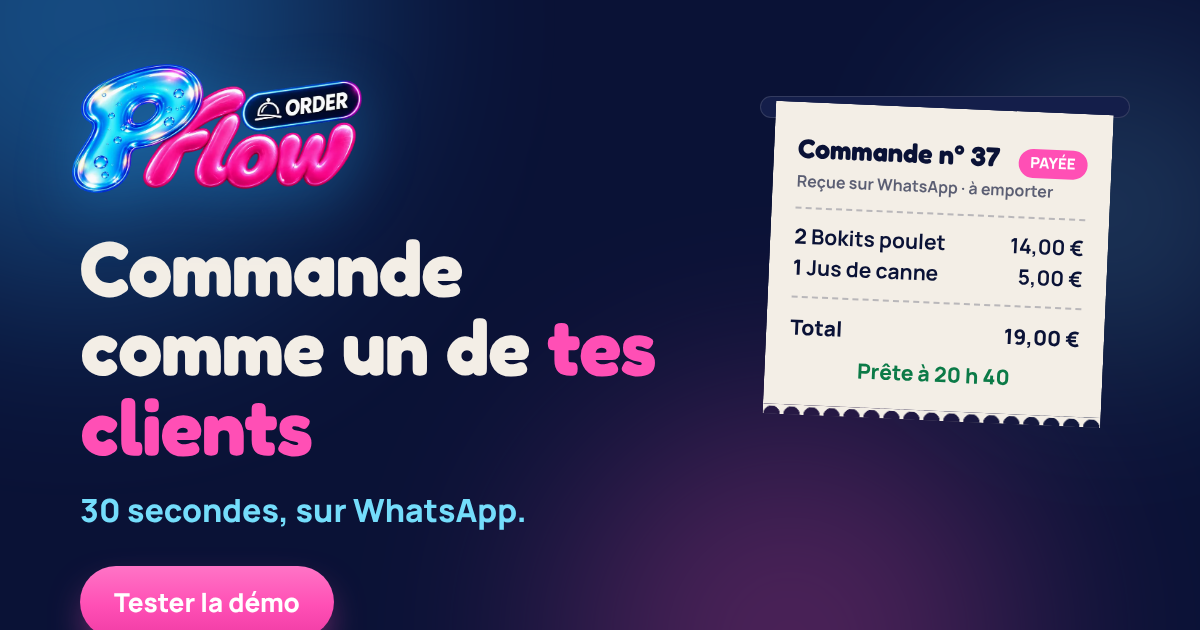
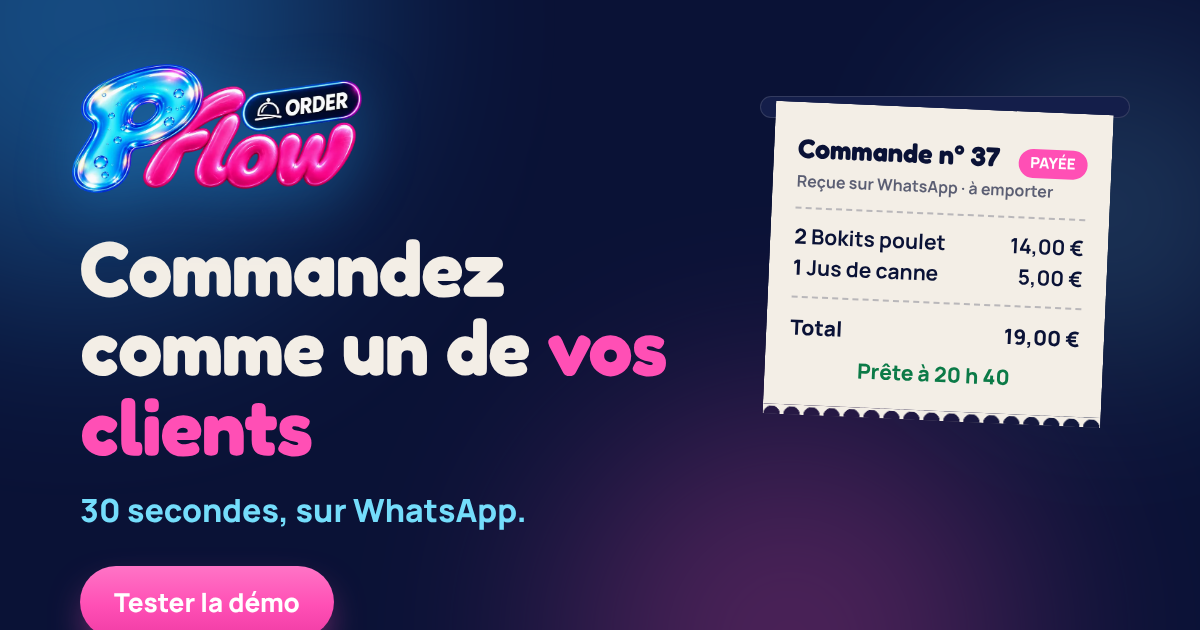
Page /demo au vouvoiement (charte PFlow v2) (#2)
* Page /demo : le lien en bio Instagram pour tester la démo WhatsApp

- demo.html : mobile-first, couleurs de la charte (#0A1236, #FF4FB5, #2AABFF, #F3EEE6, #74DDFB), polices du site
  1. logo + « Commande comme un de tes clients » / « 30 secondes, sur WhatsApp. »
  2. bouton rose « Tester la démo sur WhatsApp » (DEMO_WHATSAPP_URL en constante, à remplir)
  3. Tu écris → Tu commandes → Le resto reçoit le ticket, ticket crème qui sort au scroll
  4. « Déjà utilisé par 5 restaurants en Guadeloupe » + logos de /clients/
  5. « Découvrir PFlow » → accueil ; 6. « Tu es restaurateur ? Écris-moi » → WhatsApp pro
- UTM de l'adresse recopiés sur les liens wa.me et l'accueil ; la source (instagram, site...) ajoutée au message
- Vercel Web Analytics : visites + un événement par bouton (demo_test, decouvrir_pflow, contact_pro)
- meta OG / Twitter + og-demo.png (1200x630) ; logo 360 px ; sitemap
- Lighthouse mobile : performance 100, accessibilité 100, SEO 100

Claude-Session: https://claude.ai/code/session_018UBYgogWCfDXW26DM5tbDT

* Page /demo : logo PFlow Order en couleurs et lien du bot démo

- logo couleurs (P bulle + flow rose) en haut de la page et sur l'aperçu og-demo.png (400 et 800 px, fond transparent)
- DEMO_WHATSAPP_URL : le bot démo (590691266853, « Bonjour, je souhaite commander »)
- AJOUTER_REF : la source (« (réf : instagram) ») ajoutée au message, désactivable si le bot ne démarre plus
- logo blanc 360 px retiré (plus utilisé)
[…]

Changed region(s): [[0.4625, 0.5127, 0.555, 0.6032], [0.37, 0.3921, 0.4317, 0.4825]]

diff --git a/demo.html b/demo.html
@@ -3,22 +3,22 @@
 <head>
 <meta charset="UTF-8">
 <meta name="viewport" content="width=device-width, initial-scale=1.0, viewport-fit=cover">
-<title>Teste la démo PFlow Order sur WhatsApp en 30 secondes</title>
-<meta name="description" content="Commande comme un de tes clients : écris au bot PFlow sur WhatsApp, passe ta commande, et regarde le ticket arriver chez le resto. 30 secondes, sans appli.">
+<title>Testez la démo PFlow Order sur WhatsApp en 30 secondes</title>
+<meta name="description" content="Commandez comme un de vos clients : écrivez à PFlow sur WhatsApp, passez votre commande et regardez le ticket arriver chez le resto. 30 secondes, sans appli.">
 <meta name="robots" content="index,follow,max-image-preview:large">
 <link rel="canonical" href="https://www.pflow.fr/demo">
 <meta property="og:type" content="website">
 <meta property="og:locale" content="fr_FR">
 <meta property="og:site_name" content="PFlow Order">
-<meta property="og:title" content="Commande comme un de tes clients">
-<meta property="og:description" content="Teste la démo PFlow Order : 30 secondes, sur WhatsApp. Le ticket arrive tout seul chez le resto.">
+<meta property="og:title" content="Commandez comme un de vos clients">
+<meta property="og:description" content="Testez la démo PFlow Order : 30 secondes, sur WhatsApp. Le ticket arrive tout seul chez le resto.">
 <meta property="og:url" content="https://www.pflow.fr/demo">
 <meta property="og:image" content="https://www.pflow.fr/og-demo.png">
 <meta property="og:image:width" content="1200"><meta property="og:image:height" content="630">
-<meta property="og:image:alt" content="PFlow Order : commande comme un de tes clients, 30 secondes sur WhatsApp">
+<meta property="og:image:alt" content="PFlow Order : commandez comme un de vos clients, 30 secondes sur WhatsApp">
 <meta name="twitter:card" content="summary_large_image">
-<meta name="twitter:title" content="Commande comme un de tes clients">
-<meta name="twitter:description" content="Teste la démo PFlow Order : 30 secondes, sur WhatsApp.">
+<meta name="twitter:title" content="Commandez comme un de vos clients">
+<meta name="twitter:description" content="Testez la démo PFlow Order : 30 secondes, sur WhatsApp.">
 <meta name="twitter:image" content="https://www.pflow.fr/og-demo.png">
 <meta name="theme-color" content="#0A1236">
 <link rel="icon" href="/favicon.ico" sizes="any">
@@ -107,7 +107,7 @@ h1 em{font-style:normal;color:var(--pink);}
   <!-- 1. Le haut -->
   <header class="haut">
     <a href="/" aria-label="PFlow Order, accueil" data-evt="logo"><img class="logo" src="/logo-pflow-order-couleur-400.webp" srcset="/logo-pflow-order-couleur-400.webp 400w, /logo-pflow-order-couleur-800.webp 800w" sizes="210px" alt="PFlow Order" width="400" height="177" fetchpriority="high"></a>
-    <h1>Commande comme un de <em>tes clients</em></h1>
+    <h1>Commandez comme un de <em>vos clients</em></h1>
     <p class="sous">30 secondes, sur WhatsApp.</p>
   </header>
 
@@ -116,14 +116,14 @@ h1 em{font-style:normal;color:var(--pink);}
     <svg viewBox="0 0 24 24" aria-hidden="true"><path d="M12 2a10 10 0 0 0-8.6 15.1L2 22l5-1.3A10 10 0 1 0 12 2zm0 18.2c-1.6 0-3.1-.4-4.4-1.2l-.3-.2-3 .8.8-2.9-.2-.3A8.2 8.2 0 1 1 12 20.2zm4.5-6.1c-.2-.1-1.5-.7-1.7-.8-.2-.1-.4-.1-.6.1l-.8 1c-.1.2-.3.2-.5.1a6.7 6.7 0 0 1-3.3-2.9c-.3-.4.2-.4.6-1.3.1-.2 0-.3 0-.4l-.8-1.8c-.2-.5-.4-.4-.6-.4h-.5c-.2 0-.4.1-.7.3-.2.2-.9.9-.9 2.2s.9 2.6 1.1 2.7c.1.2 1.8 2.8 4.4 3.9 1.6.7 2.3.8 3.1.6.5-.1 1.5-.6 1.7-1.2.2-.6.2-1.1.2-1.2-.1-.1-.3-.2-.5-.3z"/></svg>
     Tester la démo sur WhatsApp
   </a>
-  <p class="mini">Gratuit, sans inscription. Tu joues le client.</p>
+  <p class="mini">Gratuit, sans inscription. Vous jouez le client.</p>
 
   <!-- 3. Les 3 etapes et le ticket -->
   <section class="etapes" aria-labelledby="t-etapes">
     <h2 id="t-etapes" hidden>Comment ça marche</h2>
     <ol>
-      <li><i><svg viewBox="0 0 24 24" aria-hidden="true"><path d="M21 12a8 8 0 0 1-11.8 7L4 20l1.1-4.6A8 8 0 1 1 21 12z"/><path d="M9 11h6M9 14h4"/></svg></i><span>1</span>Tu écris</li>
-      <li><i><svg viewBox="0 0 24 24" aria-hidden="true"><path d="M3 4h2l2.4 10.5h10.2L20 7H6.3"/><circle cx="9.5" cy="19" r="1.5"/><circle cx="17" cy="19" r="1.5"/></svg></i><span>2</span>Tu commandes</li>
+      <li><i><svg viewBox="0 0 24 24" aria-hidden="true"><path d="M21 12a8 8 0 0 1-11.8 7L4 20l1.1-4.6A8 8 0 1 1 21 12z"/><path d="M9 11h6M9 14h4"/></svg></i><span>1</span>Vous écrivez</li>
+      <li><i><svg viewBox="0 0 24 24" aria-hidden="true"><path d="M3 4h2l2.4 10.5h10.2L20 7H6.3"/><circle cx="9.5" cy="19" r="1.5"/><circle cx="17" cy="19" r="1.5"/></svg></i><span>2</span>Vous commandez</li>
       <li><i><svg viewBox="0 0 24 24" aria-hidden="true"><path d="M6 3h12v18l-2-1.4-2 1.4-2-1.4-2 1.4-2-1.4L6 21z"/><path d="M9 8h6M9 12h6M9 16h3"/></svg></i><span>3</span>Le resto reçoit le ticket</li>
     </ol>
     <div class="imprimante" aria-label="Exemple de ticket reçu par le restaurant">
@@ -154,7 +154,7 @@ h1 em{font-style:normal;color:var(--pink);}
 
   <!-- 6. Le bas -->
   <footer class="bas">
-    <p>Tu es restaurateur ? <a class="pro" id="cta-pro" data-evt="contact_pro" href="https://wa.me/590690938108" target="_blank" rel="noopener">Écris-moi</a></p>
+    <p>Vous êtes restaurateur ? <a class="pro" id="cta-pro" data-evt="contact_pro" href="https://wa.me/590690938108" target="_blank" rel="noopener">Écrivez-moi</a></p>
     <p class="legal">&copy; 2026 PFlow Order · <a href="/mentions-legales">Mentions légales</a> · <a href="/confidentialite">Confidentialité</a></p>
   </footer>
 </main>
